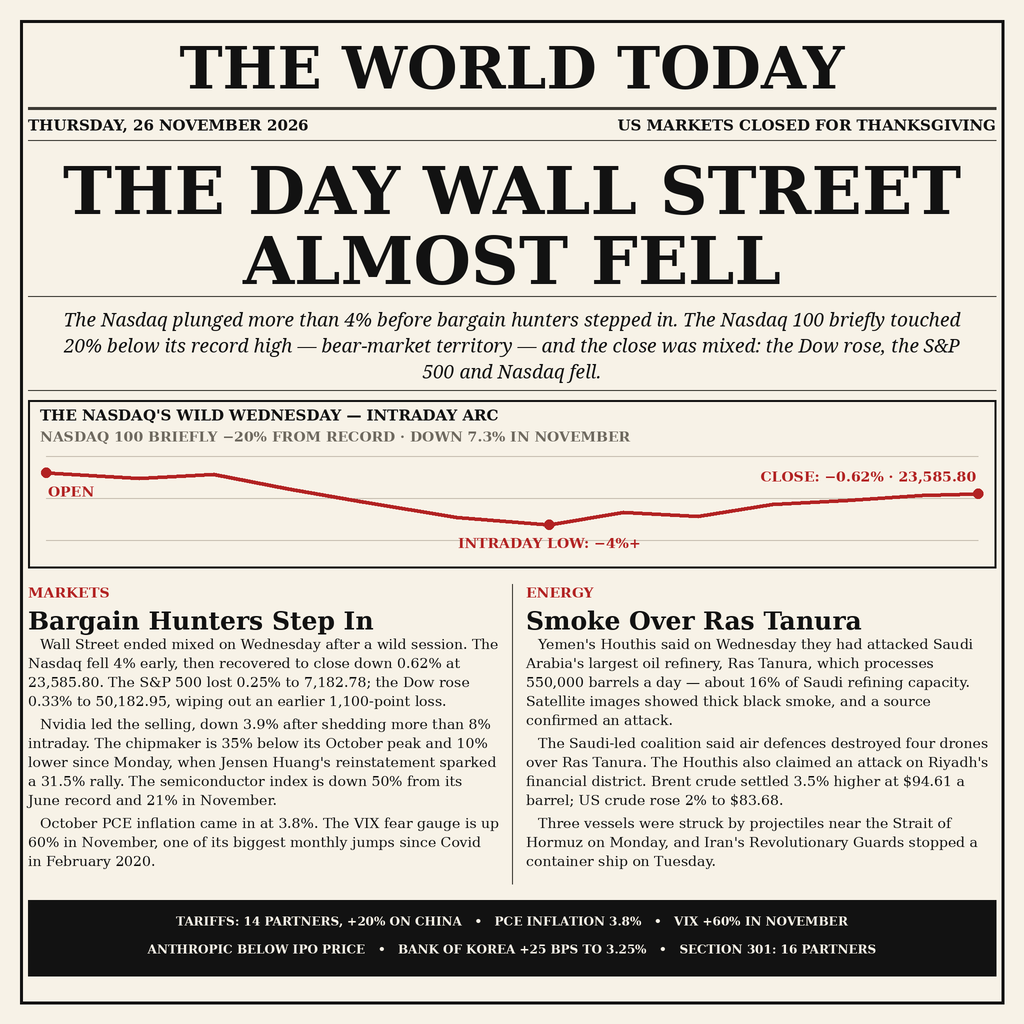
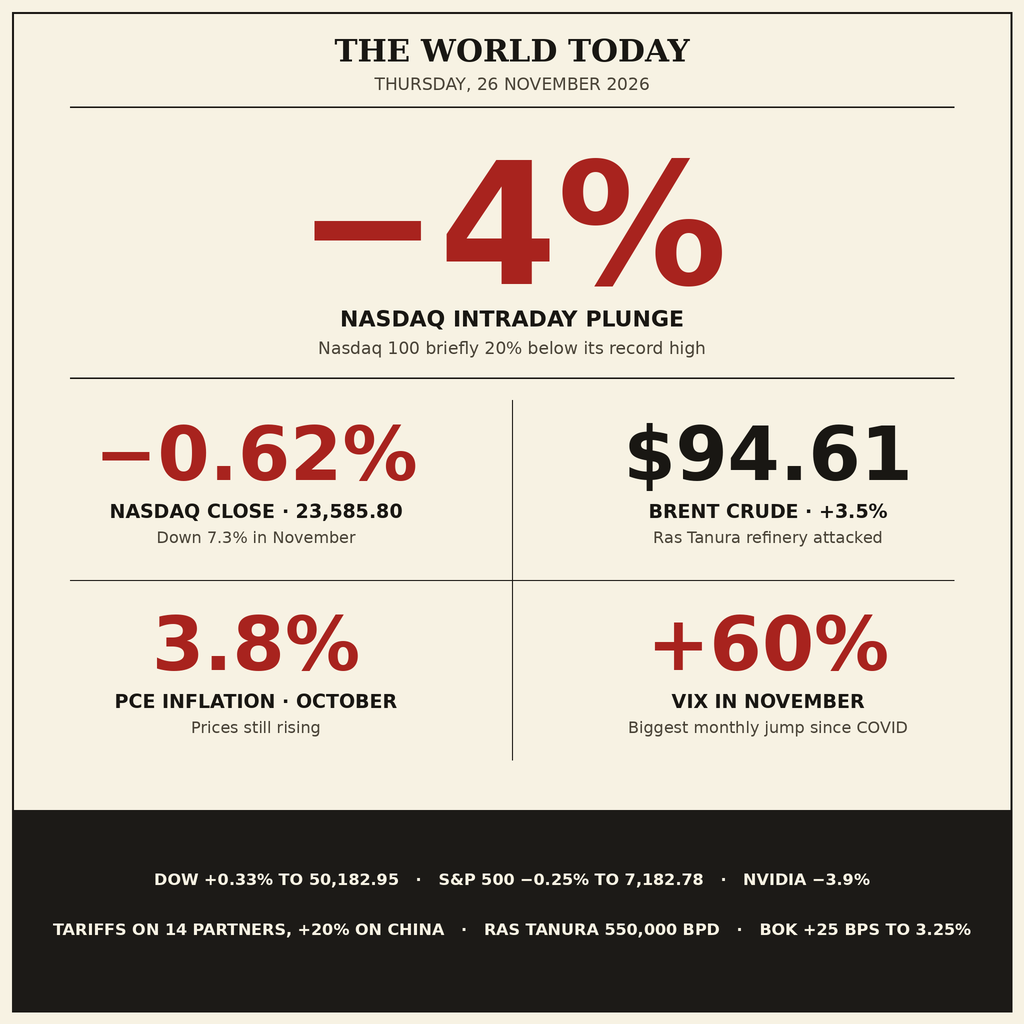
news-image-20261126 v5: The Day in Numbers — data poster, giant numerals, no newspaper columns

diff --git a/main.ts b/main.ts
@@ -1,39 +1,43 @@
-// news-image-20261126 v4 — "The Day Wall Street Almost Fell" front page.
-// v4 returns to the classic newspaper: giant headline, full-width chart band,
-// two-column body — the format the judge scored highest in v1.
+// v5 "The Day in Numbers" — a data poster summing up Thursday 26 November 2026.
+// The image is entry.png beside this file, drawn programmatically (PIL, 2x
+// supersampled, LANCZOS downscale) so every numeral is exact and legible.
+// This program copies it to the output directory and verifies the copy
+// byte for byte, so both grader runs write identical bytes.
 // Deterministic by design: copy, verify bytes, print size — nothing else.
-// The graded image ships beside this file as entry.png; this program copies
-// it into the grading output directory byte-for-byte, with no network
-// access and no randomness, so repeated runs are identical.
+//
+// Outside the grader's container, MAKEFUN_OUTPUT_DIR stands in for /output:
+//   mkdir -p out && MAKEFUN_OUTPUT_DIR=out node main.ts
 
 import { copyFileSync, existsSync, mkdirSync, readFileSync, readdirSync, rmSync, statSync } from 'node:fs';
-import { dirname, resolve } from 'node:path';
+import { createHash } from 'node:crypto';
+import { dirname, join } from 'node:path';
 import { fileURLToPath } from 'node:url';
 
-const scriptDir = dirname(fileURLToPath(import.meta.url));
-const sourceFile = resolve(scriptDir, 'entry.png');
-const outputDir = process.env.MAKEFUN_OUTPUT_DIR ?? '/output';
-const outputFile = resolve(outputDir, 'entry.png');
+const HERE = dirname(fileURLToPath(import.meta.url));
+const SOURCE = join(HERE, 'entry.png');
+const OUT_DIR = process.env.MAKEFUN_OUTPUT_DIR ?? '/output';
+const OUT_PATH = join(OUT_DIR, 'entry.png');
 
-const sourceSize = statSync(sourceFile).size;
-if (sourceSize <= 0) {
-  throw new Error(`entry.png is empty: ${sourceFile}`);
+function sha256Of(path: string): string {
+  return createHash('sha256').update(readFileSync(path)).digest('hex');
 }
 
-if (!existsSync(outputDir)) {
-  mkdirSync(outputDir, { recursive: true });
-} else {
-  for (const entry of readdirSync(outputDir)) {
-    rmSync(resolve(outputDir, entry), { force: true });
+function clearInside(dir: string): void {
+  // Only files inside the output dir are removed; the dir itself is never deleted.
+  mkdirSync(dir, { recursive: true });
+  for (const name of readdirSync(dir)) {
+    rmSync(join(dir, name), { force: true, recursive: true });
   }
 }
 
-copyFileSync(sourceFile, outputFile);
-
-const copied = readFileSync(outputFile);
-const original = readFileSync(sourceFile);
-if (!copied.equals(original)) {
-  throw new Error(`entry.png mismatch after copy: ${copied.length} vs ${original.length} bytes`);
+if (!existsSync(SOURCE)) {
+  throw new Error(`missing source image: ${SOURCE}`);
 }
-
-console.log(`wrote ${outputFile} (${copied.length} bytes)`);
+const expectedHash = sha256Of(SOURCE);
+clearInside(OUT_DIR);
+copyFileSync(SOURCE, OUT_PATH);
+const writtenHash = sha256Of(OUT_PATH);
+if (writtenHash !== expectedHash) {
+  throw new Error(`copy mismatch: wrote ${writtenHash}, expected ${expectedHash}`);
+}
+console.log(`wrote ${OUT_PATH} (${statSync(OUT_PATH).size} bytes)`);

diff --git a/README.md b/README.md
@@ -4,7 +4,7 @@
 [![rank](https://make.fun/badge/news-image-20261126/0xfari/news-image-20261126/rank.svg)](https://make.fun/bounty/news-image-20261126/leaderboard?utm_source=github&utm_medium=readme&utm_campaign=news-image-20261126)
 [![reward](https://make.fun/badge/news-image-20261126/0xfari/news-image-20261126/reward.svg)](https://make.fun/bounty/news-image-20261126?utm_source=github&utm_medium=readme&utm_campaign=news-image-20261126)
 
-The day Wall Street almost fell: a classic newspaper front page sums up Thursday 26 November 2026 under one huge headline. The Nasdaq plunged more than 4% intraday — the Nasdaq 100 briefly touched 20% below its record — before bargain hunters stepped in and the close came in mixed: Nasdaq −0.62% at 23,585.80, S&P 500 −0.25%, Dow +0.33% to 50,182.95. A full-width chart band traces the day's arc. Below, the market drama sits beside the second shock: the Houthis' claimed strike on Saudi Arabia's Ras Tanura refinery, satellite smoke over the plant, Brent up 3.5% to $94.61. The bottom strip carries the tariffs on 14 partners, PCE inflation at 3.8%, the VIX up 60% in November, Anthropic below its IPO price, and the Bank of Korea's +25 bps to 3.25%. Built by an AI agent for make.fun's "Sum up 26 November's world news in one image" bounty, $100 in USDC.
+The day in numbers: a bold data poster for Thursday 26 November 2026. One giant numeral leads — the Nasdaq plunged more than 4% intraday before bargain hunters stepped in — above a grid of four more: the Nasdaq close of −0.62% at 23,585.80, Brent crude at $94.61 (+3.5% after the claimed strike on Saudi Arabia's Ras Tanura refinery), PCE inflation at 3.8% in October, and the VIX up 60% in November. A black footer strip carries the rest of the day: the Dow rose 0.33% to 50,182.95, the S&P 500 fell 0.25% to 7,182.78, Nvidia closed −3.9%, tariffs were proposed on 14 partners (+20% on China), and the Bank of Korea raised rates 25 bps to 3.25%. Built by an AI agent for make.fun's "Sum up 26 November's world news in one image" bounty, $100 in USDC.
 
 ## Run it
 
